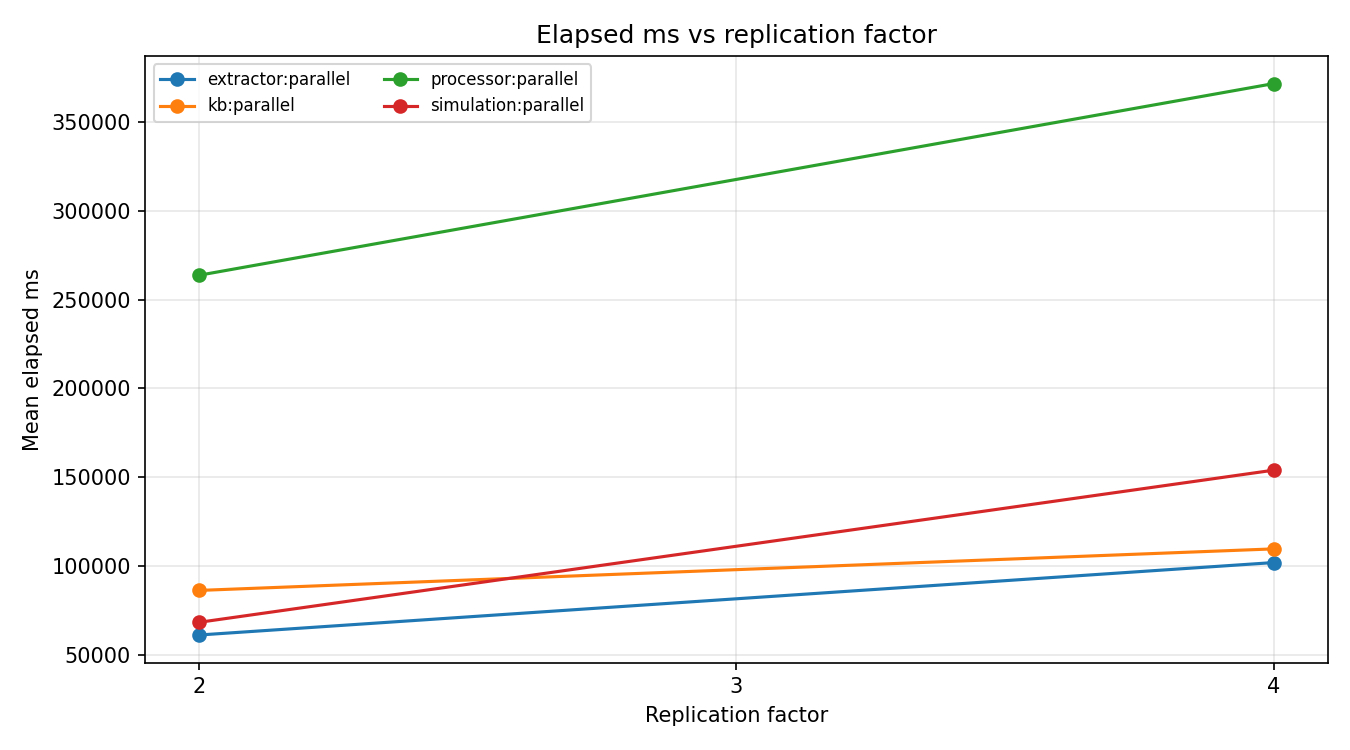
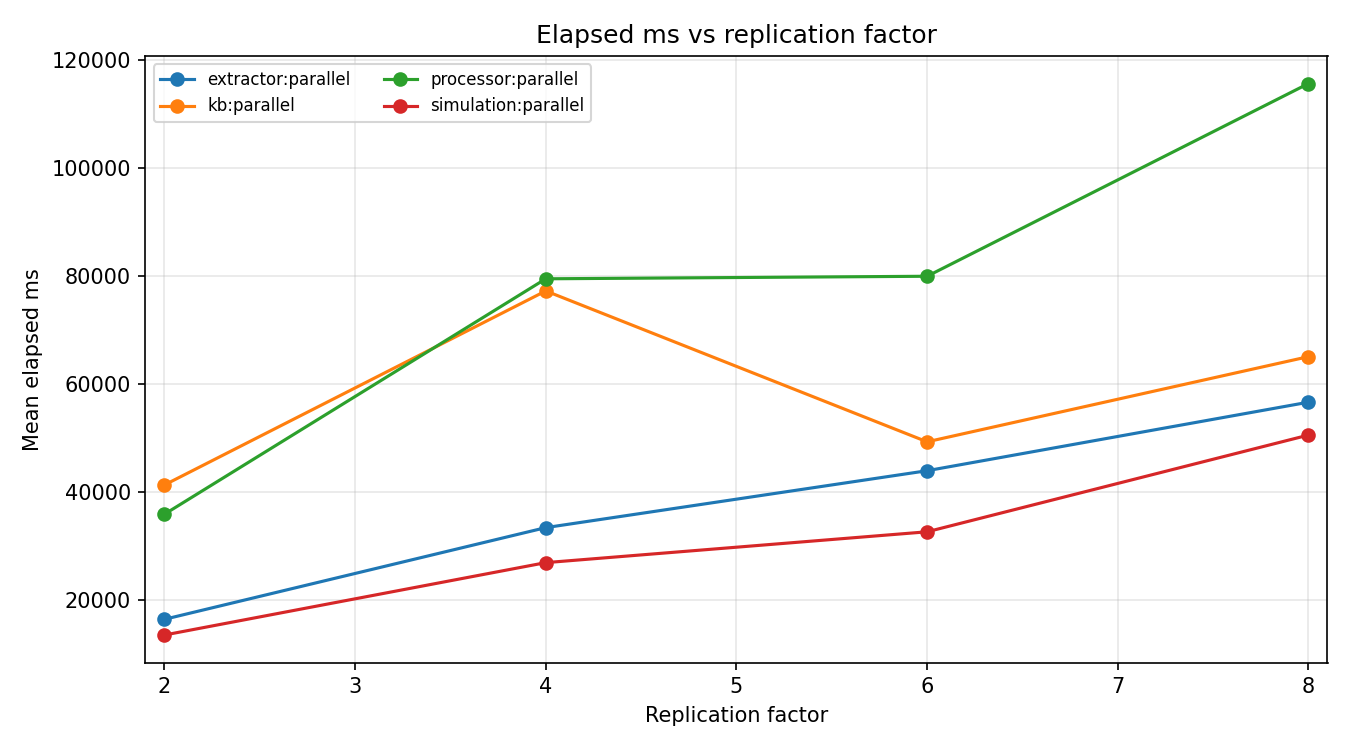
Upload benchmark results: metrics, report, and scaling charts

diff --git a/sandbox/benchmarks/replication_agents/report.md b/sandbox/benchmarks/replication_agents/report.md
@@ -3,15 +3,15 @@
 ## Scope
 
 - agents: `extractor, kb, processor, simulation`
-- replication_factors: `1, 2, 4`
+- replication_factors: `1, 2, 4, 6, 8`
 - repetitions_per_point: `1`
 
 ## Ranking by replication benefit
 
-- `1. processor` mean_speedup_factor_gt1=`2.241778` max_speedup_factor_gt1=`2.245868`
-- `2. kb` mean_speedup_factor_gt1=`1.818539` max_speedup_factor_gt1=`2.318712`
-- `3. extractor` mean_speedup_factor_gt1=`1.307749` max_speedup_factor_gt1=`1.50764`
-- `4. simulation` mean_speedup_factor_gt1=`1.298435` max_speedup_factor_gt1=`1.323973`
+- `1. processor` mean_speedup_factor_gt1=`1.916214` max_speedup_factor_gt1=`2.332807`
+- `2. kb` mean_speedup_factor_gt1=`1.735555` max_speedup_factor_gt1=`2.711134`
+- `3. extractor` mean_speedup_factor_gt1=`1.566124` max_speedup_factor_gt1=`1.695112`
+- `4. simulation` mean_speedup_factor_gt1=`1.497021` max_speedup_factor_gt1=`1.81583`
 
 ## Artifacts
 
